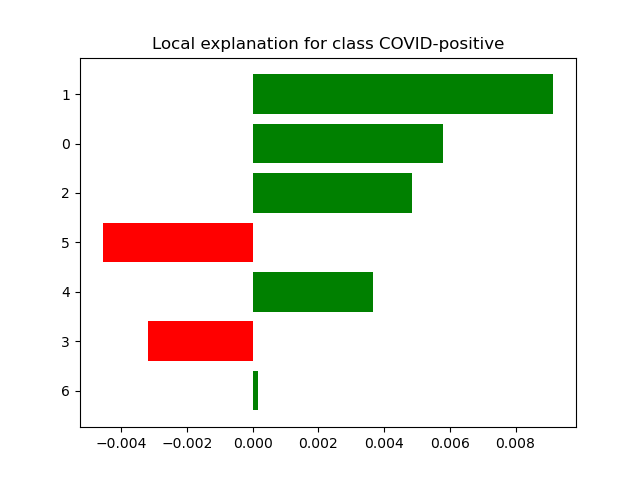
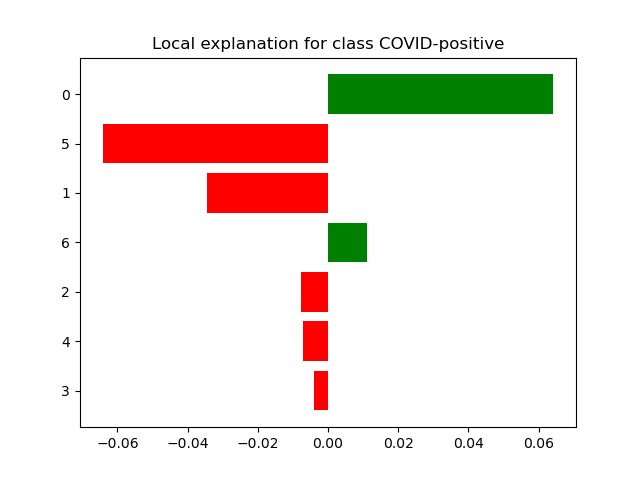
visualizations

diff --git a/lime_cough.py b/lime_cough.py
@@ -7,6 +7,9 @@ import numpy as np
 import sklearn
 from sklearn.utils import check_random_state
 from tqdm.auto import tqdm
+import librosa
+import matplotlib.pyplot as plt
+from skimage.segmentation import mark_boundaries
 
 
 from lime import lime_base
@@ -69,6 +72,84 @@ class CoughExplanation(object):
         if return_indeces:
             return audio, used_features
         return audio
+
+    def show_image_mask_spectrogram(self, label, positive_only=True, negative_only=False, hide_rest=True, num_features=5, min_weight=0., save_path=None):
+        """Init function.
+
+        Args:
+            label: label to explain
+            positive_only: if True, only take superpixels that positively contribute to
+                the prediction of the label.
+            negative_only: if True, only take superpixels that negatively contribute to
+                the prediction of the label. If false, and so is positive_only, then both
+                negativey and positively contributions will be taken.
+                Both can't be True at the same time
+            hide_rest: if True, make the non-explanation part of the return
+                image gray
+            num_features: number of superpixels to include in explanation
+            min_weight: minimum weight of the superpixels to include in explanation
+
+        Returns:
+            (image, mask), where image is a 3d numpy array and mask is a 2d
+            numpy array that can be used with
+            skimage.segmentation.mark_boundaries
+        """
+        if label not in self.local_exp:
+            raise KeyError('Label not in explanation')
+        if positive_only and negative_only:
+            raise ValueError("Positive_only and negative_only cannot be true at the same time.")
+        segmentation = self.segmentation
+        explanation = self.local_exp[label]
+
+        if positive_only:
+            indices_comp = [x[0] for x in explanation
+                  if x[1] > 0 and x[1] > min_weight][:num_features]
+            mask = segmentation.return_mask_boundaries(indices_comp, [])
+        if negative_only:
+            indices_comp = [x[0] for x in explanation
+                  if x[1] < 0 and abs(x[1]) > min_weight][:num_features]
+            mask = segmentation.return_mask_boundaries([], indices_comp)
+        if positive_only or negative_only:
+            if hide_rest:
+                spectrogram_indices = indices_comp
+            else:
+                spectrogram_indices = range(segmentation.get_number_segments())
+        else:
+            comp_pos, comp_neg = [], []
+            for x in explanation[:num_features]:
+                if x[1] > 0 and x[1] > min_weight:
+                    comp_pos.append(x[0])
+                elif x[1] < 0 and np.abs(x[1]) > min_weight:
+                    comp_neg.append(x[0])
+            # get masked image for both positive and negative with red and green parts
+            mask = segmentation.return_mask_boundaries(comp_pos, comp_neg)
+            if hide_rest:
+                spectrogram_indices = comp_pos + comp_neg
+            else:
+                spectrogram_indices = range(segmentation.get_number_segments())
+
+        spectrogram = segmentation.return_spectrogram_indices(spectrogram_indices)
+        spec_db = librosa.power_to_db(spectrogram, ref=np.max)
+        marked = mark_boundaries(spec_db, mask)
+        plt.imshow(marked[:, :, 2], origin="lower", cmap=plt.get_cmap("magma"))
+        plt.colorbar(format='%+2.0f dB')
+        if not (negative_only or positive_only):
+            image_array = np.ones(np.shape(mask) + (4,))
+            mask_negative = np.zeros(np.shape(mask))
+            mask_negative[np.where(mask == 0)] = 1
+            mask_negative_green = np.ones(np.shape(mask))
+            mask_negative_green[np.where(mask == -1)] = 0
+            mask_negative_red = np.ones(np.shape(mask))
+            mask_negative_red[np.where(mask == 1)] = 0
+            image_array[:, :, 0] = mask_negative_red #0 for green, 1 for red
+            image_array[:, :, 1] = mask_negative_green
+            image_array[:, :, 2] = mask_negative
+            image_array[:, :, 3] = np.abs(mask)
+            plt.imshow(image_array, origin="lower", interpolation="nearest", alpha=0.5)
+
+        if save_path is not None:
+            plt.savefig(save_path)
+        plt.show()
 
     def as_pyplot_figure(self, label=0):
         """Returns the explanation as a pyplot figure.

diff --git a/spectral_segmentation.py b/spectral_segmentation.py
@@ -36,7 +36,6 @@ class SpectralSegmentation(object):
             # last component
             self.segments[self.num_segments-1, (self.num_segments-1)*len_component:, :] = spectrogram[(self.num_segments-1)*len_component, :]
 
-
     def initialize_fudged_segments(self):
         print("still needs to be implemented")
 
@@ -59,3 +58,33 @@ class SpectralSegmentation(object):
         mask[indices] = True
         audio = self.get_segments_mask(mask)
         return audio
+
+    def return_spectrogram_indices(self, indices):
+        mask = np.zeros((self.num_segments,)).astype(bool)
+        mask[indices] = True
+        combined_spec = np.sum(self.segments[mask, :, :], axis=0)
+        return combined_spec
+
+    def return_mask_boundaries(self, positive_indices, negative_indices):
+        mask = np.zeros(np.shape(self.segments[0, :, :]), dtype=np.byte)
+        if 128 % self.num_segments == 0:
+            len_component = 128 / self.num_segments
+            for i in range(self.num_segments):
+                if i in positive_indices:
+                    mask[(i*len_component+1):((i+1)*len_component-1), 1:-1] = 1
+                elif i in negative_indices:
+                    mask[(i*len_component+1):((i+1)*len_component-1), 1:-1] = 2
+        else:
+            len_component = int(128 / self.num_segments + 1)
+            for i in range(self.num_segments - 1):
+                if i in positive_indices:
+                    mask[(i*len_component+1):((i+1)*len_component-1), 1:-1] = 1
+                elif i in negative_indices:
+                    mask[(i*len_component+1):((i+1)*len_component-1), 1:-1] = -1
+            # last component
+            if (self.num_segments - 1) in positive_indices:
+                mask[((self.num_segments-1)*len_component+1):-1, 1:-1] = 1
+            elif (self.num_segments - 1) in negative_indices:
+                mask[((self.num_segments-1)*len_component+1):-1, 1:-1] = -1
+
+        return mask

diff --git a/test_lime_cough_spectral.py b/test_lime_cough_spectral.py
@@ -18,7 +18,7 @@ def get_explanation(audio, sample_rate, total_components):
     explanation = explainer.explain_instance(segmentation=factorization,
                                              classifier_fn=predict_dicova.predict,
                                              labels=[0],
-                                             num_samples=64,
+                                             num_samples=16,
                                              batch_size=16,
                                              )
     return explanation, factorization
@@ -154,19 +154,20 @@ def test_single_file():
     audio_path = '/Users/anne/Documents/Uni/Robotics/Masterarbeit/MA_Code/DICOVA/DiCOVA_Train_Val_Data_Release/AUDIO/AtACyGlV_cough.flac'
     predicted_entire = predict_dicova.predict_single_audio(audio_path)
     # TODO: adapt
-    fs = librosa.get_samplerate(audio_path)
-    audio, _ = librosa.load(audio_path, sr=fs)
+    audio, fs = librosa.load(audio_path)
     total_components = 7
     explanation, factorization = get_explanation(audio, fs, total_components)
     filename = '1_test12344'
     save_mix(explanation, 3, filename, factorization, fs, gen_random=False)
-    path_name = f"./test/{filename[:-5]}_e.wav"
+    path_name = f"./quantitative_evaluation/3_components/explanations/{filename[:-5]}_e.wav"
     prediction_exp = predict_dicova.predict_single_audio(path_name)
     print(predicted_entire)
     print(prediction_exp)
     figure = explanation.as_pyplot_figure()
     figure.show()
     figure.savefig('./explanation.png')
+    explanation.show_image_mask_spectrogram(0, positive_only=True, negative_only=False, hide_rest=True, num_features=5, min_weight=0., save_path='./tests_components/test1.png')
+    explanation.show_image_mask_spectrogram(0, positive_only=False, negative_only=False, hide_rest=False, num_features=5, min_weight=0., save_path='./tests_components/test2.png')
 
 
 def perform_quantitative_analysis():

diff --git a/tests_components/test_mark_boundaries.py b/tests_components/test_mark_boundaries.py
@@ -1,0 +1,39 @@
+import matplotlib.pyplot as plt
+import spectral_segmentation
+import numpy as np
+import librosa
+from skimage.segmentation import mark_boundaries
+from PIL import Image
+import pylab
+
+
+if __name__ == "__main__":
+    # load an audio array and get its segmentation
+    # make an exemplary mask and display the outcome
+    filename = 'AtACyGlV_cough.flac'
+    audio_path = f'/Users/anne/Documents/Uni/Robotics/Masterarbeit/MA_Code/DICOVA/DiCOVA_Train_Val_Data_Release/AUDIO/{filename}'
+    audio, sample_rate = librosa.load(audio_path)
+    segmentation = spectral_segmentation.SpectralSegmentation(audio, sample_rate, 7)
+    indices = [0, 1, 2, 3, 4, 5, 6]
+    spectrogram = segmentation.return_spectrogram_indices(indices)
+    spec_db = librosa.power_to_db(spectrogram, ref=np.max)
+    mask = segmentation.return_mask_boundaries([0, 4], [2])
+    marked = mark_boundaries(spec_db, mask)
+    plt.imshow(marked[:, :, 2], origin="lower", cmap=plt.get_cmap("magma"))
+    plt.colorbar(format='%+2.0f dB')
+    image_array = np.ones(np.shape(mask) + (4,))
+    mask_negative = np.zeros(np.shape(mask))
+    mask_negative[np.where(mask == 0)] = 1
+    mask_negative_green = np.ones(np.shape(mask))
+    mask_negative_green[np.where(mask == -1)] = 0
+    mask_negative_red = np.ones(np.shape(mask))
+    mask_negative_red[np.where(mask == 1)] = 0
+    image_array[:, :, 0] = mask_negative_red #0 for green, 1 for red
+    image_array[:, :, 1] = mask_negative_green
+    image_array[:, :, 2] = mask_negative
+    image_array[:, :, 3] = np.abs(mask)
+    plt.imshow(image_array, origin="lower", interpolation="nearest", alpha=0.5)  # set opacity with alpha value
+    plt.savefig("./spec.png")
+    plt.show()
+    # TODO: check how to save a figure
+    print("done")

diff --git a/tests_components/librosa_test.py b/tests_components/librosa_test.py
@@ -34,13 +34,16 @@ def test_spectral_decomposition():
     audio, sample_rate = librosa.load(audio_path)
     n_mels = 128
     spec = librosa.feature.melspectrogram(y=audio, sr=sample_rate, n_mels=n_mels)
+    librosa.display.specshow(spec, sr=sample_rate, x_axis='time', y_axis='mel')
+    plt.colorbar(format='%+2.0f dB')
+    plt.show()
     print(np.shape(spec))
     for i in range(8):
         spectrogram = np.zeros(np.shape(spec))
         spectrogram[i*16:(i+1)*16, :] = spec[i*16:(i+1)*16, :]
         reconstructed_audio = librosa.feature.inverse.mel_to_audio(spectrogram, sr=sample_rate)
-        path_write = f"./spectral_tests/{filename[:-5]}_{n_mels}_{i}.wav"
-        soundfile.write(path_write, reconstructed_audio, sample_rate)
+        #path_write = f"./spectral_tests/{filename[:-5]}_{n_mels}_{i}.wav"
+        #soundfile.write(path_write, reconstructed_audio, sample_rate)
         spec_db = librosa.power_to_db(spectrogram, ref=np.max)
         librosa.display.specshow(spec_db, sr=sample_rate, x_axis='time', y_axis='mel')
         plt.colorbar(format='%+2.0f dB')
